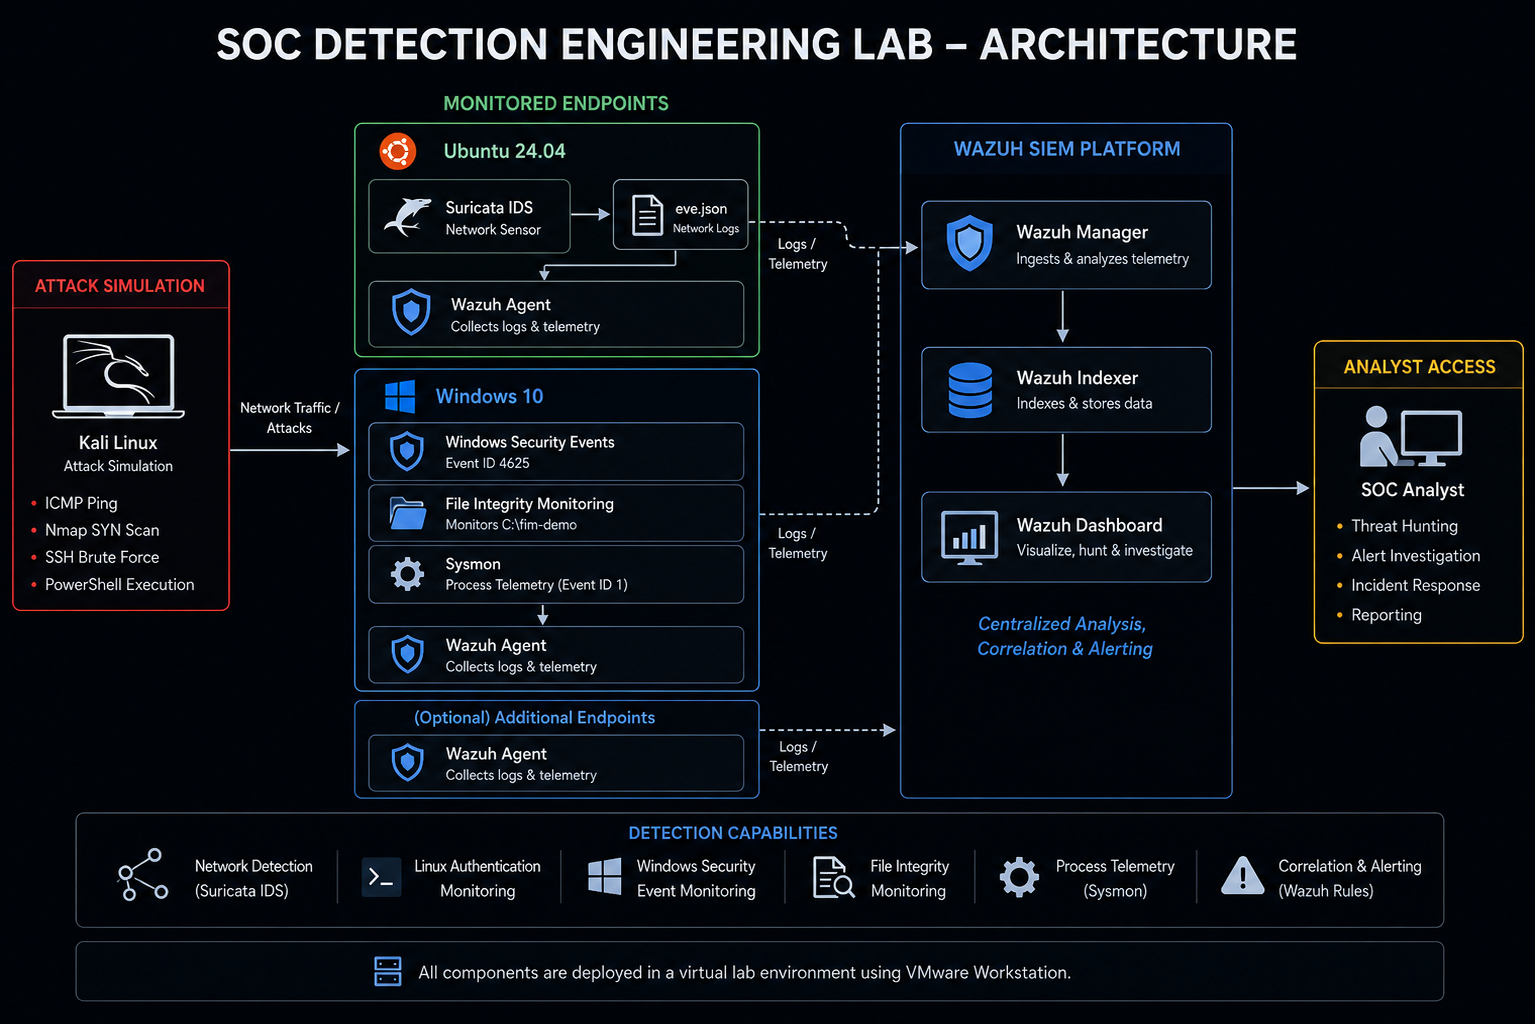
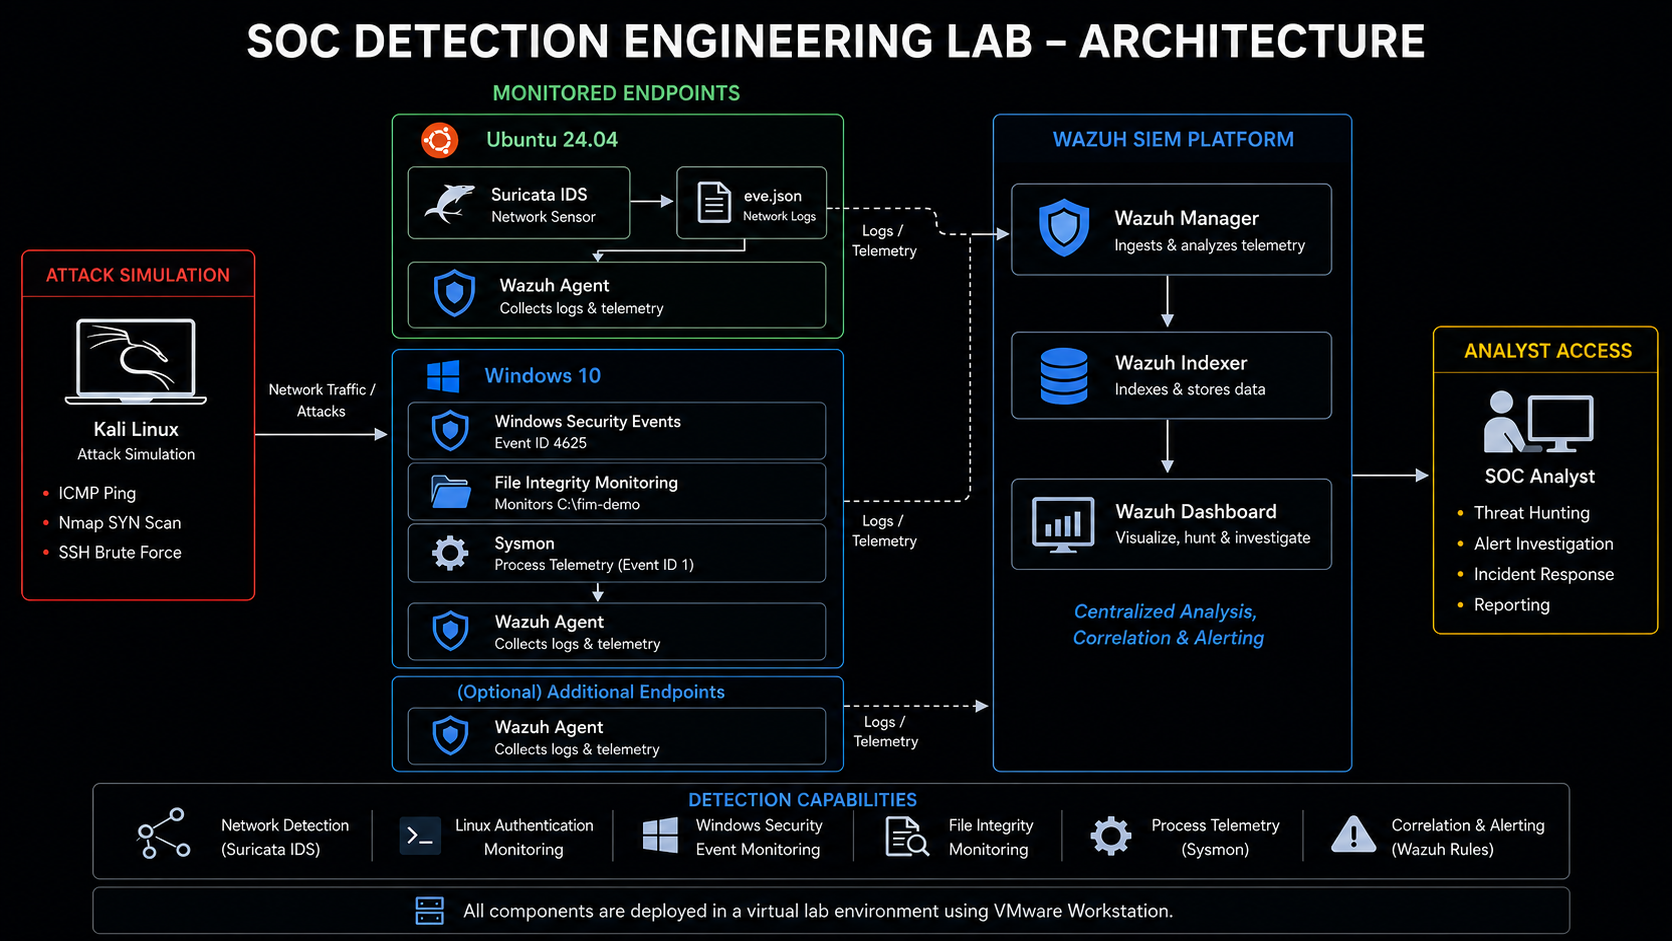
Polish detection summary and architecture diagram

Changed region(s): [[0.0, 0.0925, 1.0, 0.9862], [0.1225, 0.0, 0.8573, 0.0616]]

diff --git a/results/detection-summary.md b/results/detection-summary.md
@@ -9,7 +9,7 @@ This document summarizes the detection scenarios implemented in the SOC Detectio
 | 3 | SSH Brute-Force Detection | Multiple failed SSH authentication attempts | Ubuntu authentication logs | Wazuh | Rule `5763` | Level 10 | `T1110` — Brute Force |
 | 4 | Windows Brute-Force Correlation | Multiple failed Windows logon attempts | Windows Security Event ID `4625` | Wazuh | Custom Rule `100100` | Level 10 | `T1110` — Brute Force |
 | 5 | Windows File Integrity Monitoring | File creation, modification, and deletion | Wazuh Syscheck / FIM | Wazuh | Rules `554`, `550`, `553` | Levels 5–7 | N/A |
-| 6 | Encoded PowerShell Execution | Sysmon Event ID 1 | Wazuh Rule 92057 | 12 | T1059.001 - PowerShell |
+| 6 | Encoded PowerShell Execution | Base64-encoded PowerShell command execution | Sysmon Event ID `1` - Process Create | Wazuh | Rule `92057` | Level 12 | `T1059.001` — PowerShell |
 
 ## Detection Coverage
 
